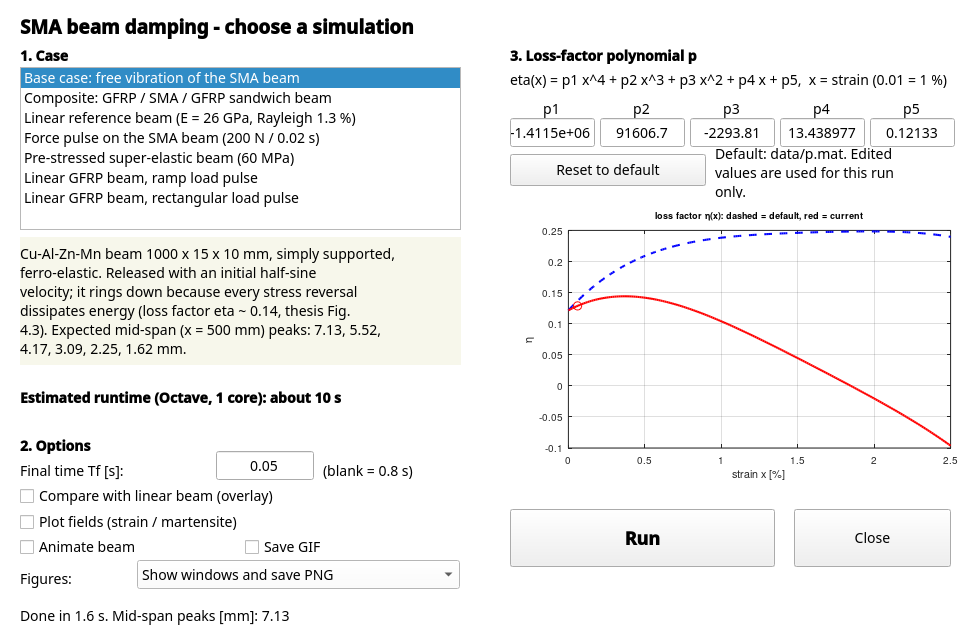
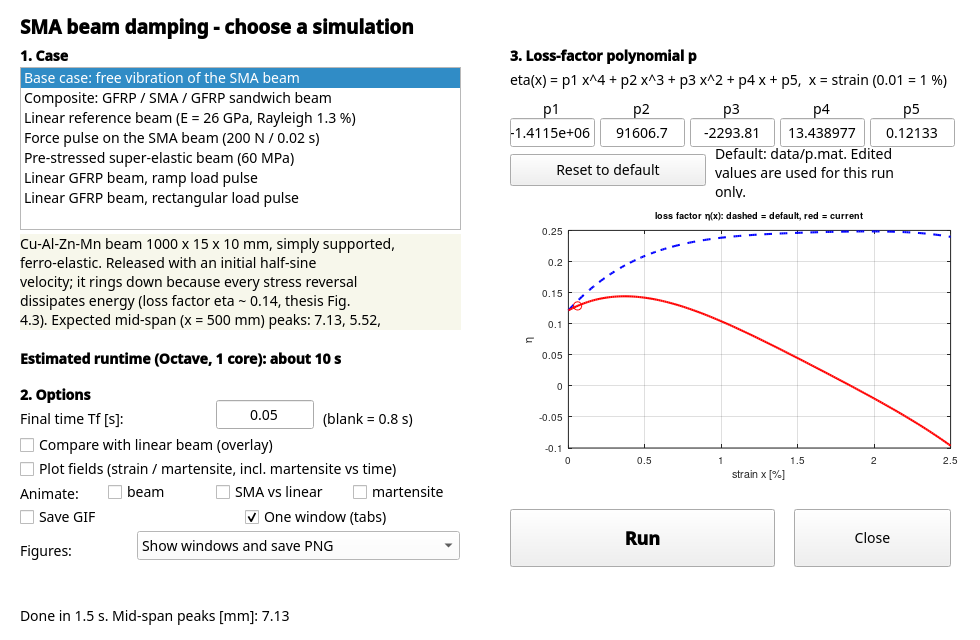
README and docs: usage of animate_compare / animate_fields / martensite xt / dashboard, sample GIFs and images, new GUI screenshot; animate_fields title

Changed region(s): [[0.0, 0.375, 0.4592, 0.9375]]

diff --git a/src/animate_fields.m b/src/animate_fields.m
@@ -54,7 +54,7 @@ for i = 1:nm
     ylabel('h [mm]');  title(labs{i},'fontsize',9);
     set(ax,'xticklabel',[]);
     hand_colorbar(fig,[0.84 yb 0.025 hp],clim(i,:),jet(128),'','%.4f');
-    if i == 1, htt = text(0.5,1.25,'','units','normalized','horizontalalignment','center','fontsize',10); end
+    if i == 1, htt = get(ax,'title'); end
 end
 yb = bot;
 ax3 = axes('position',[0.11 yb 0.70 hp]); hold on
@@ -62,7 +62,7 @@ plot(Tu, res.midspan(iu), 'color',[0.6 0.6 0.6]);
 hm = plot(t(1),mid(1),'ro','markerfacecolor','r','markersize',6);
 axis([t(1) t(end) 1.1*min(res.midspan) 1.1*max(res.midspan)]); grid on; box on
 xlabel('time t [s]'); ylabel(sprintf('w(x=%g mm) [mm]',L/2));
-upd = @(j) local_update(j, him, G, hm, t, mid, htt);
+upd = @(j) local_update(j, him, G, hm, t, mid, htt, labs{1});
 
 dogif = ~isempty(o.gif);  frames = cell(nfr,1);
 if dogif
@@ -90,9 +90,9 @@ end
 out.runtime_s = toc(t_start);
 end
 
-function local_update(j, him, G, hm, t, mid, htt)
+function local_update(j, him, G, hm, t, mid, htt, lab1)
 for i = 1:numel(him), set(him(i),'cdata',G{i}(:,:,j)); end
 set(hm,'xdata',t(j),'ydata',mid(j));
-set(htt,'string',sprintf('martensite fractions, t = %.3f s',t(j)));
+set(htt,'string',sprintf('t = %.3f s    %s',t(j),lab1),'fontsize',9);
 drawnow;
 end

diff --git a/README.md b/README.md
@@ -55,8 +55,8 @@ run_case             % opens the start window: choose the case, change p, tick t
 ![Start window](docs/gui_screenshot.png)
 
 * **Case list** with a description and the estimated runtime of each case. A case whose estimate
-  exceeds ~20 min would be flagged in red and ask for confirmation before it starts (none at the moment since
-  the 2026 speed-up; with a long `Tf` the estimate scales and the warning can still appear).
+  exceeds ~20 min would be flagged in red and ask for confirmation before it starts (none at the moment, thanks to the
+  fast code path; with a long `Tf` the estimate scales and the warning can still appear).
 * **Loss-factor coefficients p1..p5** (eta = p1 x^4 + ... + p5, x = strain as a fraction, 0.01 = 1 %), pre-filled from the
   case's own file (`data/p.mat`, or `data/p_SE.mat` for the super-elastic case). Edit any of them and the
   small plot shows the default curve (dashed) against yours (red); **Reset to default** brings them back.
@@ -64,10 +64,12 @@ run_case             % opens the start window: choose the case, change p, tick t
   get the suffix `_pmod` (e.g. `results/base_pmod_midspan.png`) so the default-p files stay untouched.
   The fields are disabled for the linear cases (no loss factor there).
 * **Final time Tf** (blank = the case default), **Compare with linear beam** (overlays the linear
-  reference), **Plot fields** (strain / martensite fraction over the beam), and **Figures**
-  (show and save PNG / show only / save only / none).
-* **Run** starts the simulation (the command window shows the progress); afterwards the mid-span
-  displacement plot opens, and the status line lists the first ring-down peaks. Inputs are checked
+  reference), **Plot fields** (strain / martensite fraction over the beam, and martensite versus time),
+  **Animate** (beam / SMA vs linear / martensite) with **Save GIF**, **One window (tabs)** (the result plots in a
+  single dashboard window; untick for separate windows) and **Figures** (show and save PNG / show only /
+  save only / none).
+* **Run** starts the simulation (the command window shows the progress); afterwards the results window
+  (dashboard, see below) opens, and the status line lists the first ring-down peaks. Inputs are checked
   (numbers, Tf > 0) with a message that says what is wrong. Without a display (e.g. over ssh) a
   text menu is shown instead.
 
@@ -94,14 +96,14 @@ visually the same as in MATLAB but not bit-identical.
 
 | `run_case(...)` | What | Runtime in Octave (1 core) |
 |---|---|---|
-| `'base'` | Free vibration, SMA beam 15 x 10 mm, ferro-elastic (below Mf), loss-factor damping | ~10 s (9 s measured, 5100 steps; 433 s before the 2026 speed-up) |
+| `'base'` | Free vibration, SMA beam 15 x 10 mm, ferro-elastic (below Mf), loss-factor damping | ~10 s (9 s measured, 5100 steps; 433 s without the fast code path) |
 | `'hle_linear'` | Linear reference beam, E = 26 GPa, Rayleigh 1.3 % | 2 s |
-| `'composite'` | GFRP / SMA / GFRP sandwich, free vibration | ~2 s (1.5 s measured; 53 s before) |
+| `'composite'` | GFRP / SMA / GFRP sandwich, free vibration | ~2 s (1.5 s measured; 53 s without the fast code path) |
 | `'linear_pulse_incremental'`, `'linear_pulse_rectangular'` | Linear GFRP beam under a ramp / rectangular load pulse | 17 s |
-| `'pulse'` | Rectangular 200 N / 0.02 s pulse on the 30 x 20 mm SMA beam | ~2 min (112 s measured, 64000 steps; hours before the 2026 speed-up) |
-| `'prestrain_se'` | Super-elastic beam with 60 MPa pre-stress | ~45 s (41 s measured, 20800 steps; hours before the 2026 speed-up) |
+| `'pulse'` | Rectangular 200 N / 0.02 s pulse on the 30 x 20 mm SMA beam | ~2 min (112 s measured, 64000 steps; hours without the fast code path) |
+| `'prestrain_se'` | Super-elastic beam with 60 MPa pre-stress | ~45 s (41 s measured, 20800 steps; hours without the fast code path) |
 
-Timings: GNU Octave 10.3 on a Linux box, 1 core; a laptop will differ. The 2026 speed-up
+Timings: GNU Octave 10.3 on a Linux box, 1 core; a laptop will differ. The fast code path
 (`PERF_NOTES.md`: vectorised assembly, analytic Jacobian, no per-step history; same solver, same
 tolerances, same physics) made `pulse` and `prestrain_se` practical. The shortened runs equal the
 original scripts to a relative 1e-5 (`tests/run_tests.m`). **Results match to rounding level**: same step
@@ -125,10 +127,10 @@ starting at the first maximum):
 values of thesis Fig. 4.3: about 5.5, 4.15, 3.1, 2.2, 1.6 mm.)
 
 *Which point is "mid-span"?* With N = 16 nodes (15 elements) there is no node at x = L/2: the nodes 8 and 9 sit at
-x = 467 and 533 mm. Until 12 Nov 2026 the code reported the deflection of node 9 (x = 533 mm). Now `res.midspan`
+x = 467 and 533 mm. Earlier versions reported the deflection of node 9 (x = 533 mm). `res.midspan`
 is the deflection at exactly x = 500 mm, obtained with the cubic Hermite shape functions of the beam element from
 w and theta of nodes 8 and 9 (`src/midspan_deflection.m`); for mode 1 it is 0.56 % larger. The old node value is
-kept as `res.midspan_node` (position `res.x_midspan_node` = 533 mm, column `res.col` of `res.XX`). The old peaks
+kept as `res.midspan_node` (position `res.x_midspan_node` = 533 mm, column `res.col` of `res.XX`). The node-9 peaks
 were 7.09, 5.49, 4.15, 3.07, 2.24, 1.61 mm. (The force of the `pulse` cases is still applied symmetrically around node 9,
 see `KNOWN_ISSUES.md` #9.)
 
@@ -170,6 +172,51 @@ The GIF writer is pure Octave/MATLAB (`imwrite(...,'gif','DelayTime',...,'LoopCo
 no external tool needed. Octave needs the GraphicsMagick-enabled `imwrite` (the Windows installer has it; Octave prints a harmless
 "limits images to 8 bits per pixel" warning) - the code asks for LZW compression, without which Octave's GIFs are ~10x larger.
 
+### Looping GIFs, SMA vs linear, martensite evolution and the dashboard
+
+```octave
+run_case('base','animate_compare','gif')              % results/base_animation_compare.gif: SMA beam and linear beam together
+run_case('base','animate_fields','gif')               % results/base_fields_animation.gif: martensite fractions over time
+run_case('base','plot_fields',true)                   % + results/base_martensite_xt.png (martensite versus time and position)
+run_case('base','compare_hle',true,'plot_fields',true,'figures','both')   % one dashboard window with tabs, PNGs saved too
+run_case('base','figures','show','dashboard',false)   % the old separate windows
+```
+
+* **GIFs loop forever.** Every GIF written by the code (`src/gif_write.m`) carries the NETSCAPE loop block; if the image
+  library leaves it out, `gif_ensure_loop` inserts it. (Some viewers, e.g. the Windows photo viewer, ignore the loop setting
+  and show a GIF once; browsers, GitHub, PowerPoint and VLC loop it.)
+* **SMA vs linear beam** (`'animate_compare'`, `src/animate_compare.m`): both beams overlaid on the same axes with the same
+  deflection scale (SMA blue, linear reference red) and both mid-span time histories with a moving marker each. It runs the
+  linear reference (`hle_linear`) itself if `compare_hle` is not set. Values for `'animate_compare'`: `true` (window), `'gif'`, `'both'`.
+
+![SMA beam against the linear beam](docs/base_animation_compare.gif)
+
+*10x slow motion, deflection x20; the linear beam (red) decays much more slowly than the SMA beam (blue) (`docs/base_animation_compare.gif`, 2.1 MB).*
+
+* **Martensite evolution.** The martensite fractions depend on the load history (hysteresis), so they cannot be rebuilt from
+  the displacements afterwards; `sma_beam_solve` therefore copies xi_s+, xi_s-, xi_T at ~100 evenly spaced times while it
+  solves (`cfg.post.n_snapshots`, `res.snapshots`; 750 x 3 numbers each, no measurable cost, the solution is bit-identical,
+  and the `cfg.perf` flags still work). `plot_fields` and `animate_fields` switch it on. It works for the base and the composite
+  case; the super-elastic pre-strain case has one fraction (xi_s+).
+  * `'plot_fields',true` also saves `results/<case>_martensite_xt.png` (`src/martensite_xt.m`): one colour map per fraction,
+    position along the beam horizontally, time vertically, averaged over the section thickness (`martensite_xt(res,cfg,fig,'fibre','top')`
+    for an outer fibre, also `'bottom'`, `'max'`).
+  * `'animate_fields'` (`true`, `'gif'`, `'both'`; `src/animate_fields.m`) animates the three maps of the final-time figure over
+    length x thickness with fixed colour limits and the mid-span history below (extra options in `'fields_opts'`, e.g.
+    `{'step',2}` for fewer frames; `docs/base_fields_animation.gif`).
+
+![Martensite versus time and position](docs/base_martensite_xt.png)
+
+*Base case: the martensite fractions accumulate where the strain is largest (mid-span), cycle after cycle.*
+
+* **Dashboard** (`src/dashboard.m`). With `'figures'` = `'show'` or `'both'` (and in the start window) the plots are collected in
+  one window with a row of tab buttons: Deflection, SMA vs linear (with `compare_hle`), Strain and Martensite (final) (with `plot_fields`,
+  two-phase models), Martensite (t, x). The PNG files are written exactly as before. GNU Octave 10.3 has no `uitabgroup`, so the tabs are
+  toggle buttons that switch `uipanel`s, which works in the Octave Qt toolkit and in MATLAB; with the gnuplot / FLTK toolkits `run_case`
+  falls back to separate windows (`'dashboard',false` forces them). Animations open in their own windows.
+
+![Dashboard](docs/dashboard_screenshot.png)
+
 ![Loss factor fit](docs/loss_factor_fit.png)
 
 *Loss factor eta versus reversal strain computed from Brinson cycles, and its polynomial fit.*
@@ -191,6 +238,8 @@ src/                    the solver
   composite_matrices.m  matrices of the GFRP skins (was Composite_matrices.m + hand-saved Matrices.mat)
   initial_velocity.m    initial half-sine velocity field
   meshare.m             field plots (optional)
+  animate_beam.m, animate_compare.m, animate_fields.m   animations (+ gif_write.m, gif_ensure_loop.m ... GIF helpers)
+  martensite_xt.m, dashboard.m   martensite versus time and position; the tabbed results window
   smooth_mean2d.m       moving-average smoothing used by meshare.m
   case_catalog.m        list of cases with descriptions, runtime estimates, p file (feeds the window)
 brinson/                material level (thesis chapter 2): Brinson model, phase diagram, super-elasticity,
@@ -202,7 +251,7 @@ tools/                  make_loss_factor_figure.m
 LICENSE                 MIT
 docs/                   figures; CODE_MAP_original_analysis.md = the original code map (before the cleanup)
 archive/                older attempts (not maintained), see archive/README.md
-CLEANUP_REPORT.md       what was kept / moved / removed / changed, and the verification
+CHANGES.md              what differs from the original thesis code (kept / moved / removed / changed) and the verification
 KNOWN_ISSUES.md         bugs and oddities of the original code
 ```
 
@@ -223,9 +272,9 @@ A force pulse: `cfg = case_pulse(); cfg.load.F_element = -50;` (nodal force per 
 
 To regenerate the loss-factor curve instead of using the shipped one:
 `run('brinson/Tension_compression_parametric.m')` writes `results/p_regen.mat`, then
-`cfg.p_file = fullfile('results','p_regen.mat')`. This is an alternative only: the default stays the author's
-original `data/p.mat`, which matches the thesis best (the regenerated curve is lower at small strain, see
-`CLEANUP_REPORT.md` and `docs/loss_factor_fit.png`).
+`cfg.p_file = fullfile('results','p_regen.mat')`. This is an alternative only: the default stays the original
+`data/p.mat`, which matches the thesis best (the regenerated curve is lower at small strain, see
+`CHANGES.md` and `docs/loss_factor_fit.png`).
 
 ## Tests
 
@@ -233,6 +282,8 @@ original `data/p.mat`, which matches the thesis best (the regenerated curve is l
 cd tests; run_tests            % quick (~2.5 min): short runs of every case equal to the original scripts within a relative 1e-5 (round-off)
 run_tests('full')              % + the full base and composite runs, peaks versus the thesis
 ```
+
+`run_tests` also covers the looping GIFs, the martensite snapshots, the xt map, the fields and comparison animations and the dashboard.
 
 The start window has its own automatic test (it opens the window, sets values programmatically and
 presses Run with a short `Tf`; needs a display, on Linux `xvfb-run -a octave --no-gui --eval "cd tests; test_gui"`).
@@ -249,16 +300,17 @@ presses Run with a short `Tf`; needs a display, on Linux `xvfb-run -a octave --n
 * The `ode23t` stand-in is not the same integrator as MATLAB's, so the numbers differ slightly from
   a MATLAB run (a MATLAB run of the original code was not available).
 * The Newton loop of the 2020 code used `&&` where `||` was almost certainly intended; the cleaned code uses `||`
-  (effect on the results < 1 %, see `KNOWN_ISSUES.md` #1). Several smaller issues of the original are listed there too.
+  (effect on the results < 1 %, see `KNOWN_ISSUES.md` #1 and `CHANGES.md`). Several smaller issues of the original are listed there too.
 * The force term of the linear transient case was lost in the original files and is inferred.
 
 ## Roadmap
 
 1. ~~Interactive menu~~ **done**: `run_case` opens a start window (case, p coefficients, linear comparison, Tf, figures). Still open: load type / force / frequency fields, and a low-resolution quick mode.
-2. **Post-run beam animation**: animate from the saved displacements after the run (not during the
-   solve), colour the beam by phase fraction or stress, export a GIF for this README.
-3. Speed: analytic Jacobian, other solver; save each run with its settings; compare two runs on one plot.
-4. **Someday**: a 3D beam (2 -> 6 degrees of freedom per node) needs a 3D constitutive law such as
+2. ~~Post-run beam animation~~ **done** (beam, SMA vs linear, martensite fractions; looping GIFs; results dashboard).
+3. Forced vibration and frequency response in the start window.
+4. Design charts: how much SMA is needed for a given damping.
+5. Other shapes and boundary conditions; comparison against real tests; other constitutive models.
+6. **Someday**: a 3D beam (2 -> 6 degrees of freedom per node) needs a 3D constitutive law such as
    Lagoudas or Souza-Auricchio with its own return-mapping solver. Keeping Brinson and adding bending
    in two directions is a possible intermediate step.
 
